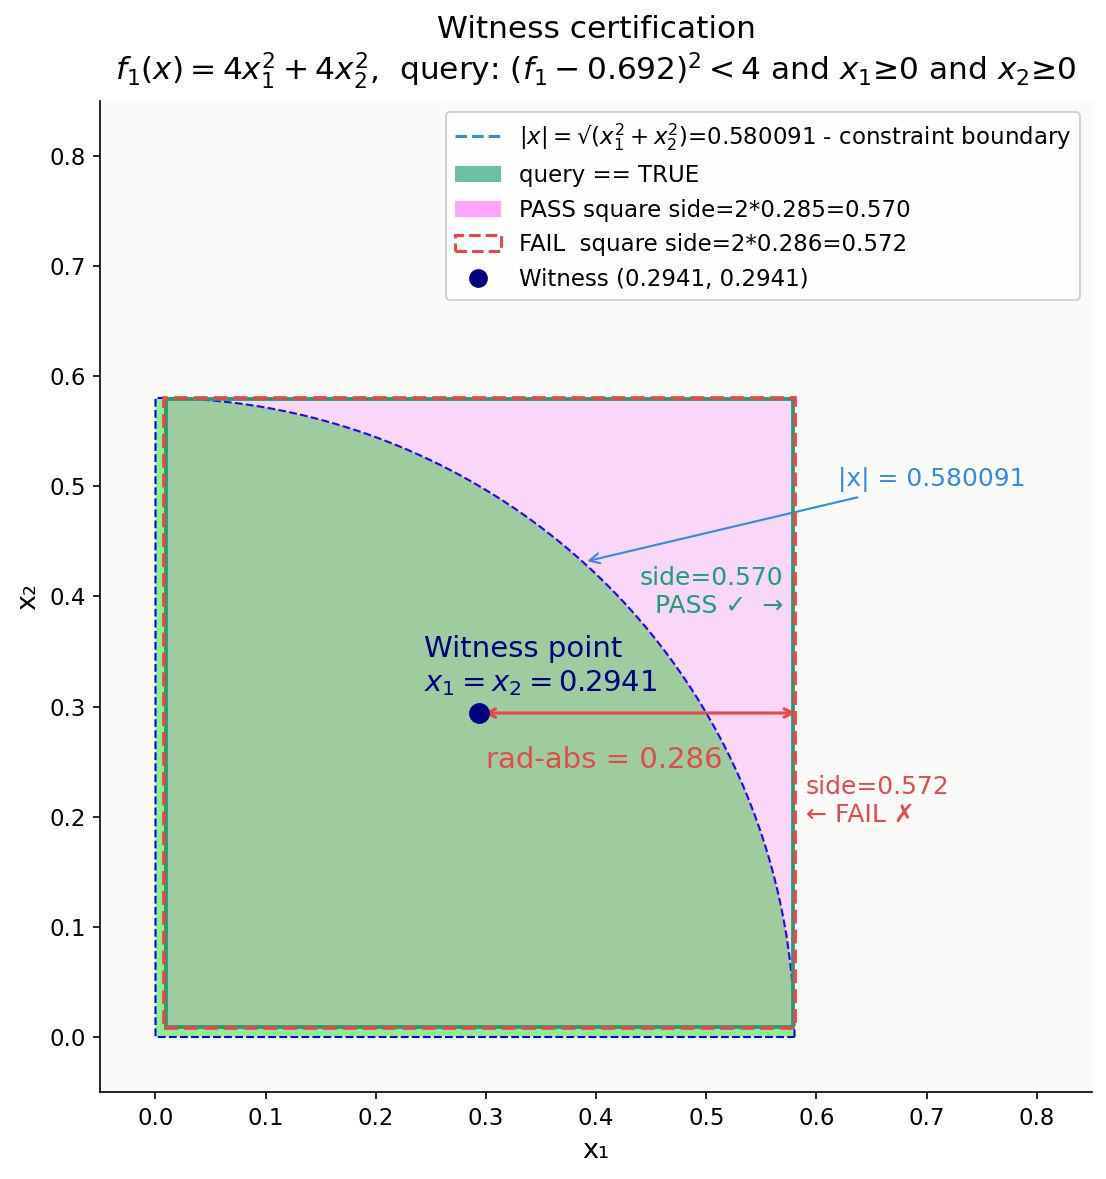
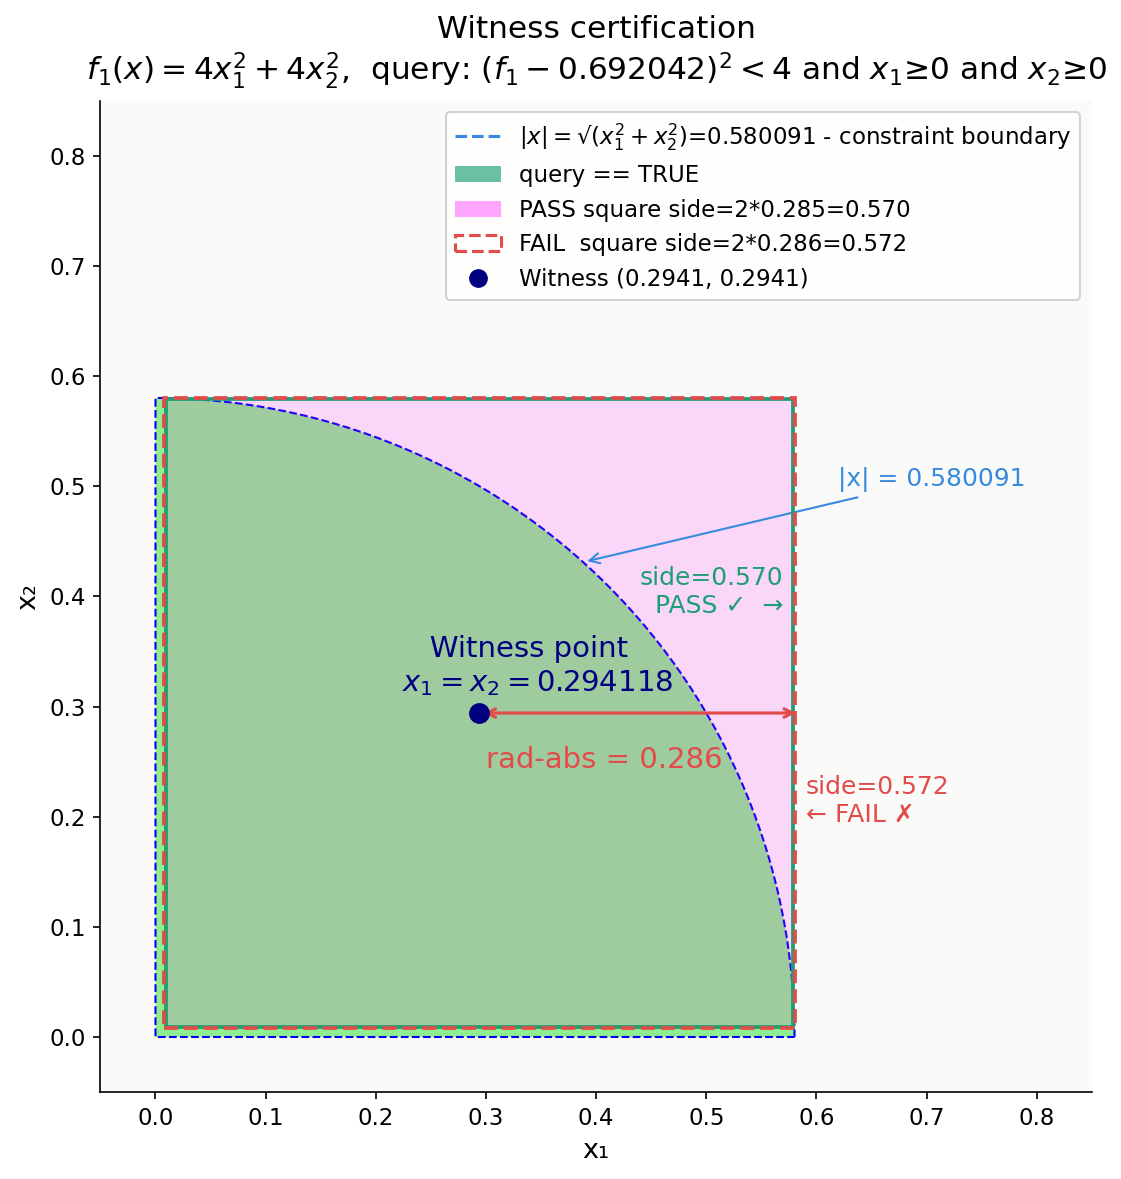
Small plot improvement

diff --git a/tutorial/examples/bnh/smlp/witness_certify_plot.py b/tutorial/examples/bnh/smlp/witness_certify_plot.py
@@ -41,7 +41,7 @@ def plot_geometry(ax):
     ax.set_ylabel("x₂", fontsize=13)
     ax.tick_params(labelsize=11)
     ax.set_title("Witness certification\n"
-                 r"$f_1(x)=4x_1^2+4x_2^2$,  query: $(f_1-0.692)^2<4$ and $x_1 ≥ 0$ and $x_2 ≥ 0$",
+                 r"$f_1(x)=4x_1^2+4x_2^2$,  query: $(f_1-0.692042)^2<4$ and $x_1 ≥ 0$ and $x_2 ≥ 0$",
                  fontsize=15, pad=10)
 
     # ── constraint boundary |x| = 0.580091 (quarter circle) ──────────────────
@@ -59,8 +59,8 @@ def plot_geometry(ax):
     # ── Witness point ────────────────────────────────────────────────────
     px = py = 0.294118
     ax.plot(px, py, "o", color=C_NAVYBLUE, ms=9, zorder=5)
-    ax.annotate("Witness point\n$x_1=x_2=0.2941$",
-                xy=(px, py), xytext=(px-0.05, py+0.02),
+    ax.annotate("   Witness point\n$x_1=x_2=0.294118$",
+                xy=(px, py), xytext=(px-0.07, py+0.02),
                 fontsize=14, color=C_NAVYBLUE)
 
     # ── PASS square: half-side = 0.285, full side = 0.570 ───────────────────
